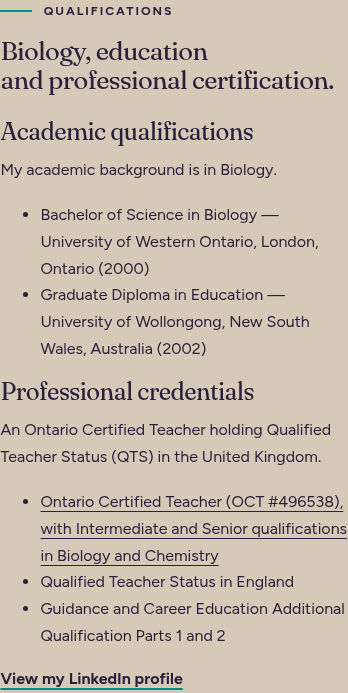
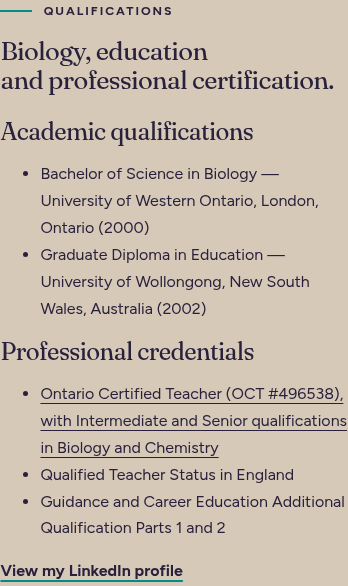
Remove repeated introductory statements from academic and professional qualifications

diff --git a/templates/pages/about-amanda.html b/templates/pages/about-amanda.html
@@ -1,1 +1,1 @@
-<section class="page-hero"><div class="wrap"><a class="back-link" href="/">%%COPY:about-amanda-000%%</a><p class="eyebrow">%%COPY:about-amanda-001%%</p><h1>%%COPY:about-amanda-002%%</h1><p class="lead">%%COPY:about-amanda-003%%</p></div></section><section class="section "><div class="wrap"><div class="amanda-preview"><div><figure class="portrait-placeholder" role="img" aria-label="Amanda D’Souza monogram"><div class="portrait-mark">A</div><figcaption>Amanda D’Souza</figcaption></figure></div><div><p class="eyebrow">%%COPY:about-amanda-004%%</p><h2>%%COPY:about-amanda-021%%</h2><p>%%COPY:about-amanda-005%%</p><p>%%COPY:about-amanda-018%%</p><h3>%%COPY:about-amanda-019%%</h3><p>%%COPY:about-amanda-020%%</p><a class="text-link" href="/subjects-programmes/">%%COPY:about-amanda-015%%</a></div></div></div></section><section class="section taupe"><div class="wrap"><div class="credentials-panel"><div><p class="eyebrow">%%COPY:about-amanda-006%%</p><h2>%%COPY:about-amanda-007%%</h2></div><div><h3>%%COPY:about-amanda-022%%</h3><p>%%COPY:about-amanda-008%%</p><ul><li>%%COPY:about-amanda-023%%</li><li>%%COPY:about-amanda-024%%</li></ul><h3>%%COPY:about-amanda-025%%</h3><ul><li><a href="https://apps.oct.ca/FindATeacher/memberdetail?id=496538" rel="noopener noreferrer" target="_blank">%%COPY:about-amanda-026%%</a></li><li>%%COPY:about-amanda-027%%</li><li>%%COPY:about-amanda-028%%</li></ul><p><a class="text-link" href="%%VERIFY_URL%%" rel="noopener noreferrer" target="_blank">%%COPY:about-amanda-012%%</a></p></div></div></div></section><section class="section dark"><div class="wrap"><div class="reading-column"><h2>%%COPY:about-amanda-016%%</h2><p>%%COPY:about-amanda-017%%</p><p class="eyebrow">%%COPY:about-amanda-009%%</p><p>%%COPY:about-amanda-010%%</p><p>%%COPY:about-amanda-011%%</p><p>%%COPY:about-amanda-029%%</p></div></div></section>%%COMPONENT:cta%%<nav class="page-navigation" aria-label="Page navigation"><a href="/about-auxesis/">%%COPY:about-amanda-013%%</a><a href="/how-tutoring-works/">%%COPY:about-amanda-014%%</a></nav>
+<section class="page-hero"><div class="wrap"><a class="back-link" href="/">%%COPY:about-amanda-000%%</a><p class="eyebrow">%%COPY:about-amanda-001%%</p><h1>%%COPY:about-amanda-002%%</h1><p class="lead">%%COPY:about-amanda-003%%</p></div></section><section class="section "><div class="wrap"><div class="amanda-preview"><div><figure class="portrait-placeholder" role="img" aria-label="Amanda D’Souza monogram"><div class="portrait-mark">A</div><figcaption>Amanda D’Souza</figcaption></figure></div><div><p class="eyebrow">%%COPY:about-amanda-004%%</p><h2>%%COPY:about-amanda-021%%</h2><p>%%COPY:about-amanda-005%%</p><p>%%COPY:about-amanda-018%%</p><h3>%%COPY:about-amanda-019%%</h3><p>%%COPY:about-amanda-020%%</p><a class="text-link" href="/subjects-programmes/">%%COPY:about-amanda-015%%</a></div></div></div></section><section class="section taupe"><div class="wrap"><div class="credentials-panel"><div><p class="eyebrow">%%COPY:about-amanda-006%%</p><h2>%%COPY:about-amanda-007%%</h2></div><div><h3>%%COPY:about-amanda-022%%</h3><ul><li>%%COPY:about-amanda-023%%</li><li>%%COPY:about-amanda-024%%</li></ul><h3>%%COPY:about-amanda-025%%</h3><ul><li><a href="https://apps.oct.ca/FindATeacher/memberdetail?id=496538" rel="noopener noreferrer" target="_blank">%%COPY:about-amanda-026%%</a></li><li>%%COPY:about-amanda-027%%</li><li>%%COPY:about-amanda-028%%</li></ul><p><a class="text-link" href="%%VERIFY_URL%%" rel="noopener noreferrer" target="_blank">%%COPY:about-amanda-012%%</a></p></div></div></div></section><section class="section dark"><div class="wrap"><div class="reading-column"><h2>%%COPY:about-amanda-016%%</h2><p>%%COPY:about-amanda-017%%</p><p class="eyebrow">%%COPY:about-amanda-009%%</p><p>%%COPY:about-amanda-010%%</p><p>%%COPY:about-amanda-011%%</p><p>%%COPY:about-amanda-029%%</p></div></div></section>%%COMPONENT:cta%%<nav class="page-navigation" aria-label="Page navigation"><a href="/about-auxesis/">%%COPY:about-amanda-013%%</a><a href="/how-tutoring-works/">%%COPY:about-amanda-014%%</a></nav>
